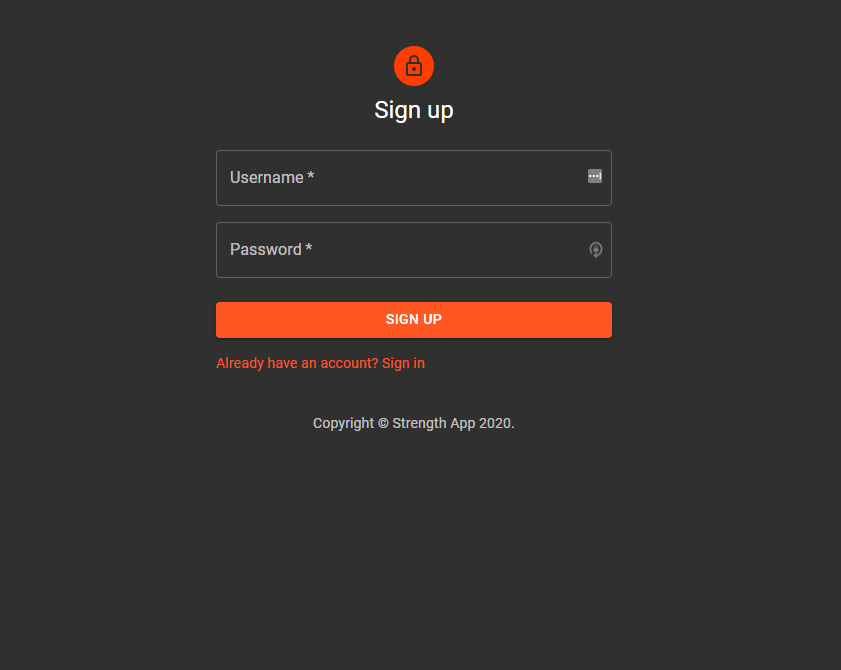
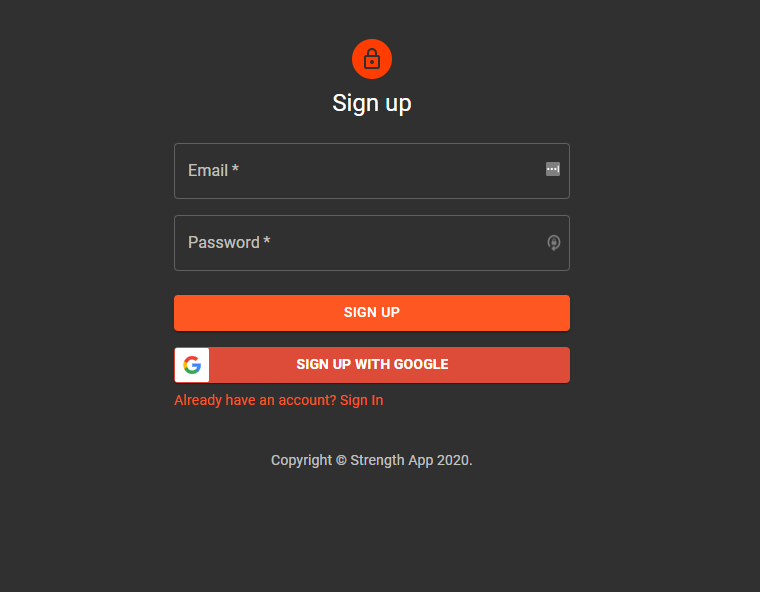
updated read me

Changed region(s): [[0.2118, 0.2432, 0.7566, 0.6993], [0.4237, 0.0608, 0.5447, 0.2128], [0.3632, 0.7601, 0.6355, 0.7905]]

diff --git a/readme.md b/readme.md
@@ -2,25 +2,25 @@
 
 <p align="center">
     
-  <a href="https://github.com/rpdurk/strengthApp/graphs/contributors" alt="Contributors">
-          <img src="https://img.shields.io/github/contributors/rpdurk/strengthApp?style=plastic" /></a>
+  <a href="https://github.com/rpdurk/TheIronDojo-Mongo-/graphs/contributors" alt="Contributors">
+          <img src="https://img.shields.io/github/contributors/rpdurk/TheIronDojo-Mongo-?style=plastic" /></a>
           
-  <a href="https://github.com/rpdurk/strengthApp/network/members" alt="Forks">
-          <img src="https://img.shields.io/github/forks/rpdurk/strengthApp?style=plastic" /></a>
+  <a href="https://github.com/rpdurk/TheIronDojo-Mongo-/network/members" alt="Forks">
+          <img src="https://img.shields.io/github/forks/rpdurk/TheIronDojo-Mongo-?style=plastic" /></a>
   
-  <a href="https://github.com/rpdurk/strengthApp/issues" alt="Issues">
-          <img src="https://img.shields.io/github/issues/rpdurk/strengthApp" /></a>
+  <a href="https://github.com/rpdurk/TheIronDojo-Mongo-/issues" alt="Issues">
+          <img src="https://img.shields.io/github/issues/rpdurk/TheIronDojo-Mongo-" /></a>
           
-  <a href="https://github.com/rpdurk/strengthApp/pulls" alt="Pull">
-          <img src="https://img.shields.io/github/issues-pr/rpdurk/strengthApp" /></a>
+  <a href="https://github.com/rpdurk/TheIronDojo-Mongo-/pulls" alt="Pull">
+          <img src="https://img.shields.io/github/issues-pr/rpdurk/TheIronDojo-Mongo-" /></a>
           
-  <a href="https://github.com/rpdurk/strengthApp/pulls" alt="Pull">
-          <img src="https://img.shields.io/github/issues-pr-closed/rpdurk/strengthApp" /></a>
+  <a href="https://github.com/rpdurk/TheIronDojo-Mongo-/pulls" alt="Pull">
+          <img src="https://img.shields.io/github/issues-pr-closed/rpdurk/TheIronDojo-Mongo-" /></a>
 </p>
 
 <br />
 <p align="center">
-  <a href="https://the-iron-dojo.herokuapp.com/">
+  <a href="https://iron-dojo.herokuapp.com/">
     <img src="./projectImages/ironDojologo.png" alt="Logo" width="360" height="180">
   </a>
 
@@ -29,7 +29,7 @@
   <p align="center">
     A web application that allows you to track your strength.
     <br />
-    <a href="https://the-iron-dojo.herokuapp.com/"><strong>Explore the Iron Dojo »</strong></a>
+    <a href="https://iron-dojo.herokuapp.com/"><strong>Explore the Iron Dojo »</strong></a>
     <br />
   </p>
 </p>
@@ -50,7 +50,7 @@
 <!-- ABOUT THE PROJECT -->
 ## About The Project
 
-[The Iron Dojo](https://the-iron-dojo.herokuapp.com/)
+[The Iron Dojo](https://iron-dojo.herokuapp.com/)
 
 Exercise is medicine. Physical activity comes in a wide variety of modes including running, team sports, active-virtual-reality games, and of course strength training.  Most web applications are designed for the aerobic exercise enthusiast in mind, but strength training has been show to be incredibly important for health.  
 
@@ -67,24 +67,31 @@ Wether you are looking to improve your health, improve your strength, or simply 
 ### Built With
 * [React](https://reactjs.org/)
 * [Material-UI](https://material-ui.com/)
+* [Node](https://nodejs.org/en/)
+* [ExpressJs](https://expressjs.com/)
 * [JavaScript](https://www.javascript.com/)
+* [Bcrypt](https://www.npmjs.com/package/bcrypt)
+* [JsonWebToken](https://www.npmjs.com/package/jsonwebtoken)
+* [MongoDB](https://www.mongodb.com/2)
+* [Mongoose](https://mongoosejs.com/)
 * [heroku](https://www.heroku.com/home)
 * [wger API](https://wger.de/en/software/api)
+* [Google O-Auth](https://developers.google.com/identity/protocols/oauth2)
 
 
 ## Visit The Site
 
-Visit the live website at [Here](https://the-iron-dojo.herokuapp.com/)
+Visit the live website at [Here](https://iron-dojo.herokuapp.com/)
 
 
 ## Usage
 
 The primary purpose of this project is to make, log, and track your strength training. Take a look on how to do that!
 
-1. Sign Up!
+1. Sign Up with your email or Google!
     ![Sign Up](./projectImages/signIn.png)
 
-2. Sign In
+2. Sign In with your email or Google!
     ![Sign In](./projectImages/signUp.png)
 
 3. Create your first workout.  Name it, choose the right exercises, and save when you are ready!
@@ -93,17 +100,20 @@ The primary purpose of this project is to make, log, and track your strength tra
 4. Log the sets, repetitions, weight and select the date the workout was completed on.
     ![Log Workout](./projectImages/Log.gif)
 
-5. Chart your Progress by selecting an exercise you want to review.
+5. Chart your progress by selecting an exercise you want to review.  Check out our lifetime volume or weekly volume to make sure you are hitting your goals.
     ![Dashboard](./projectImages/dashboard.gif)
+
+6. Notice the community feed on the side to gain extra motivation and ideas!
+    ![Dashboard](./projectImages/CommunityFeed.png)
 
 ## Contributing
 
 Contributions for this web application was made by 
 * [Ryan Durk](https://github.com/rpdurk), 
 * [Jeff Hogg](https://github.com/bosshogg86), 
-* [Qian Hu](https://github.com/huqian301), and 
-* [Muhammad Kamran](https://github.com/mkamran67).
-
+* [Qian Hu](https://github.com/huqian301),
+* [Muhammad Kamran](https://github.com/mkamran67), and
+* [Ryan Mendez](https://github.com/rymen80).
 
 <!-- LICENSE -->
 ## License
